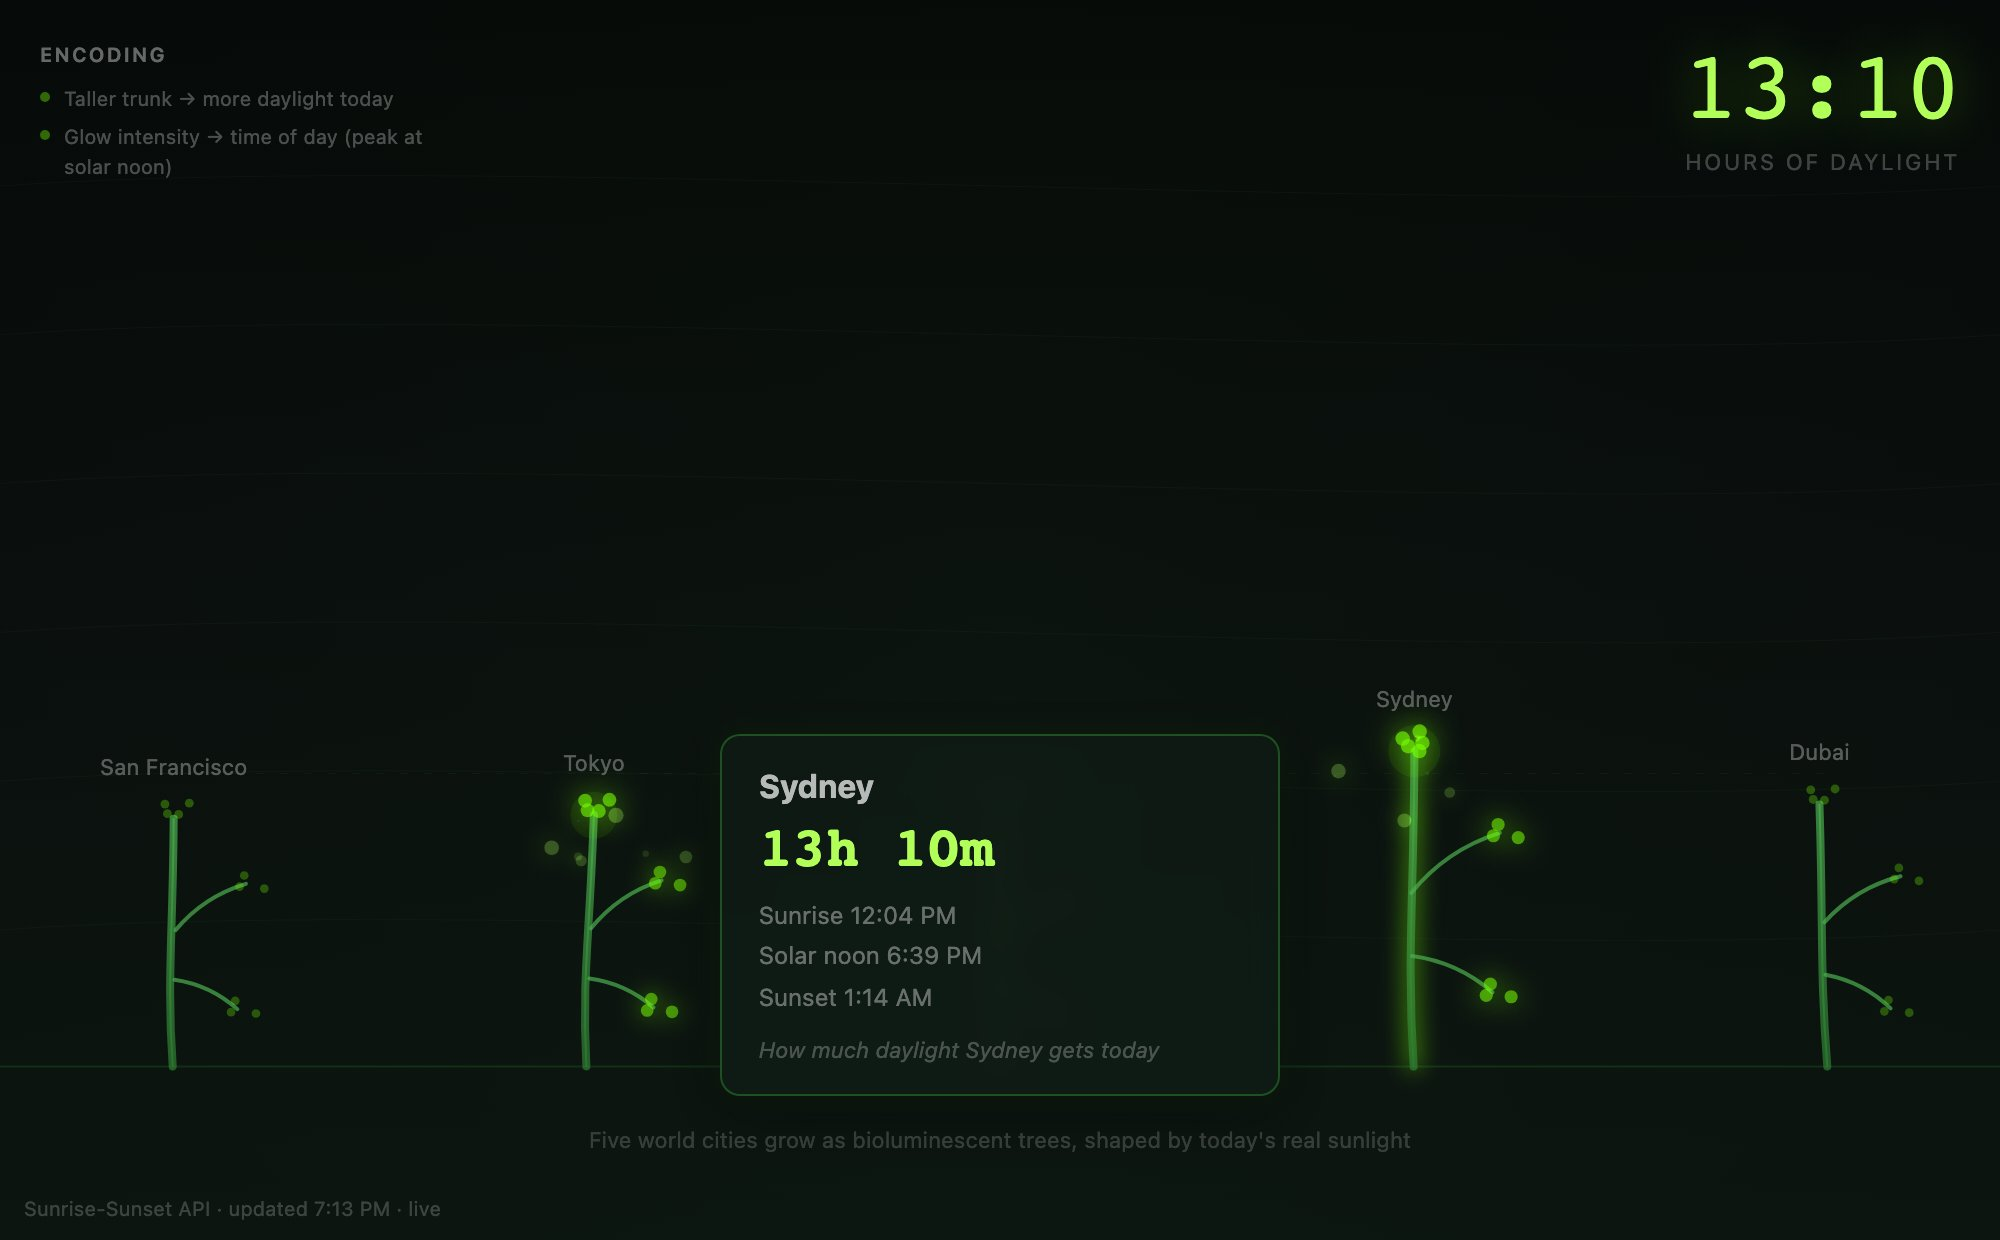
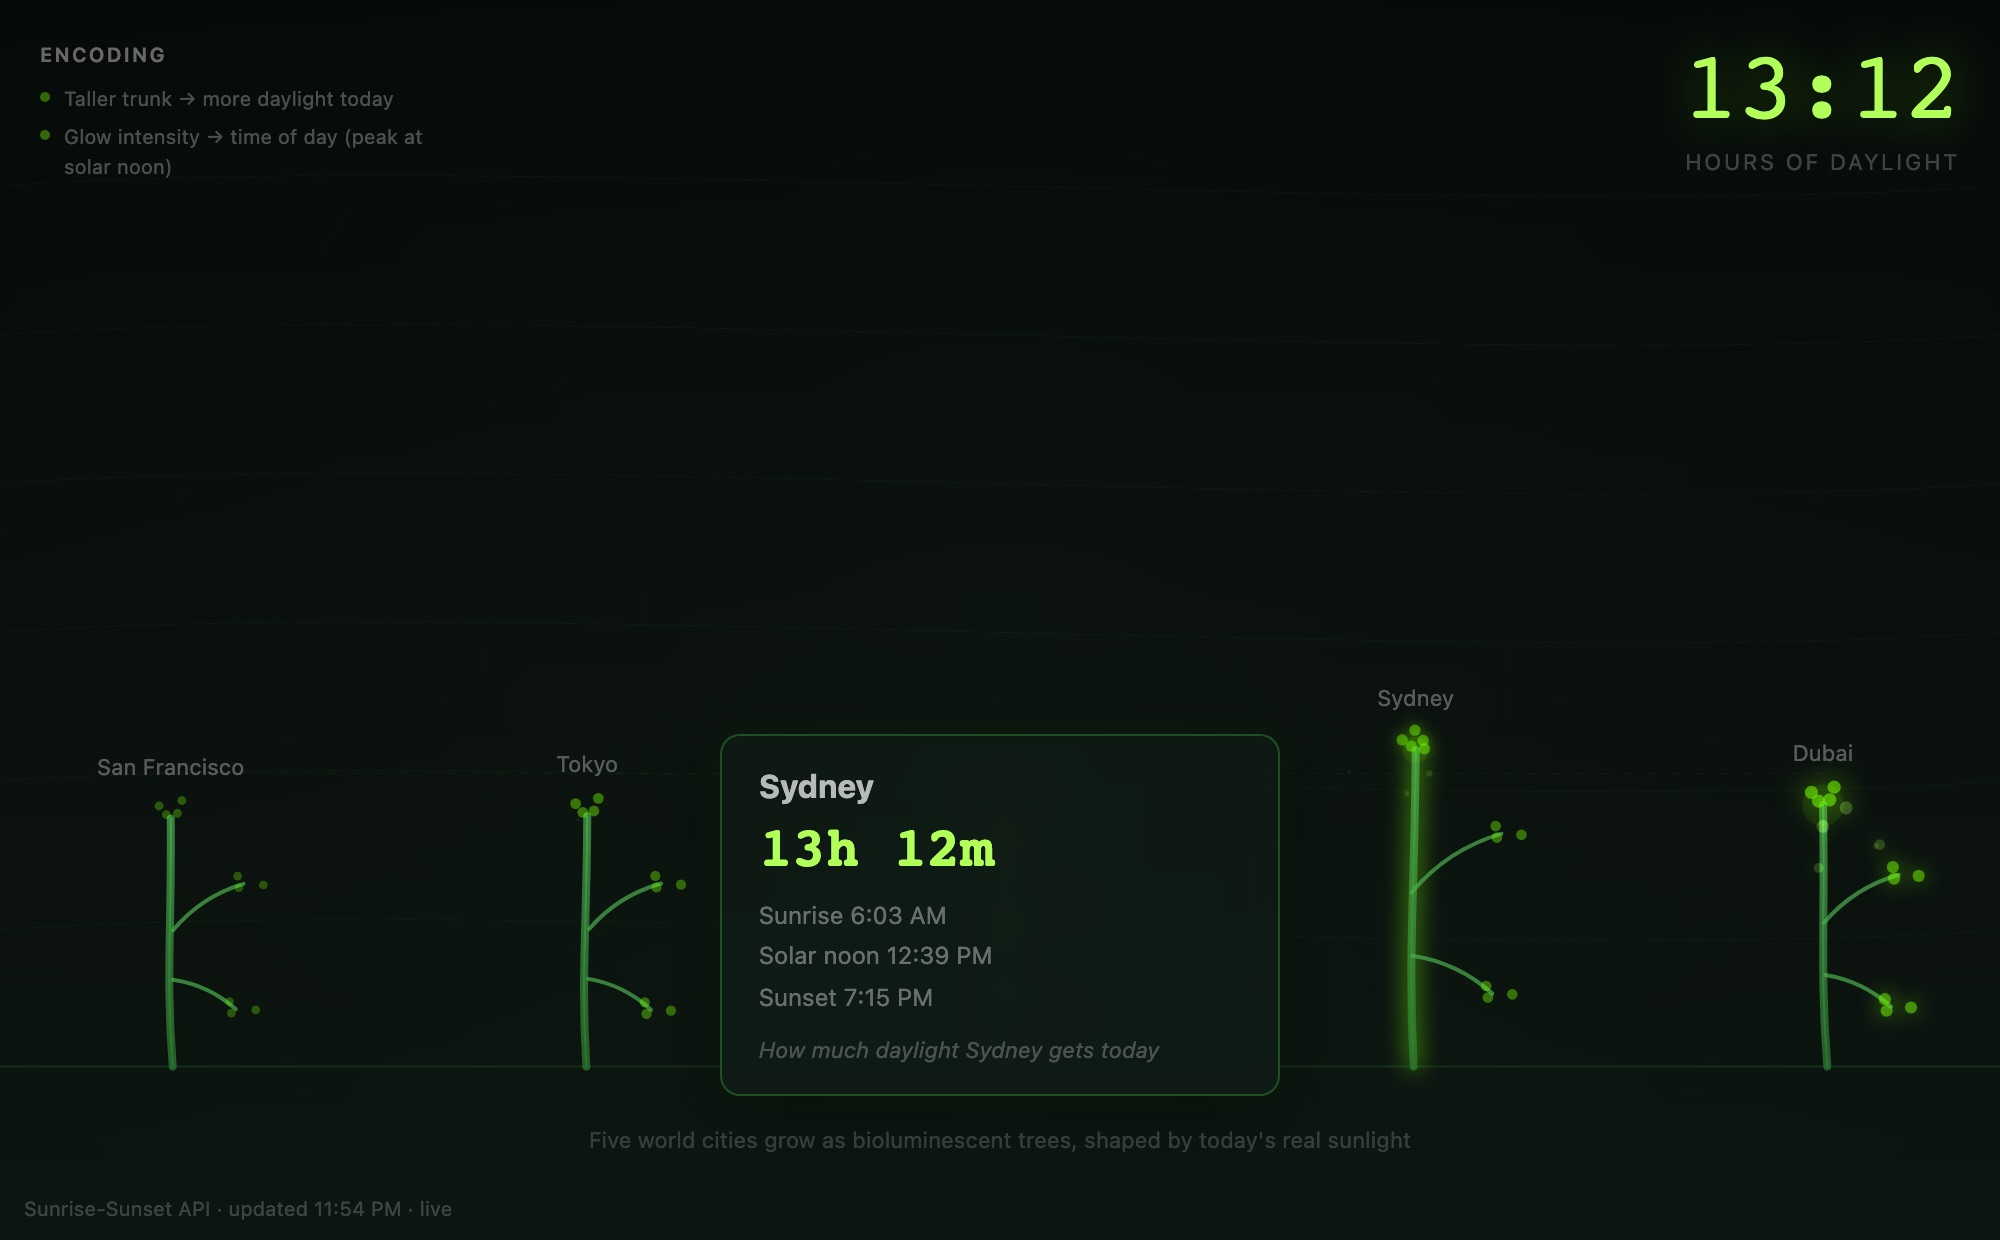
Refresh tap-panel capture with city-local times

diff --git a/README.md b/README.md
@@ -55,7 +55,7 @@ to `live` only when all five cities return.
 
 <div align="center">
 
-<img src="docs/assets/readme/tap-panel.jpg" width="720" alt="A dark green panel over the forest reading Sydney, 13h 10m, with sunrise, solar noon and sunset times and the line How much daylight Sydney gets today">
+<img src="docs/assets/readme/tap-panel.jpg" width="720" alt="A dark green panel over the forest reading Sydney, 13h 12m, with sunrise, solar noon and sunset times and the line How much daylight Sydney gets today">
 
 <sub>The panel after tapping Sydney. Live data; times are shown in the city's own timezone.</sub>
 
